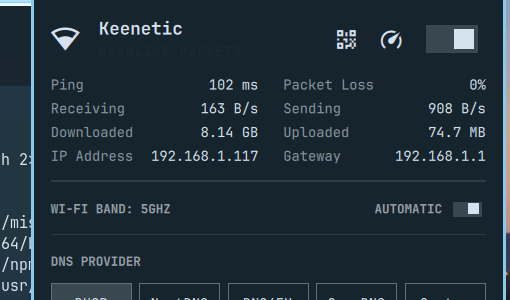
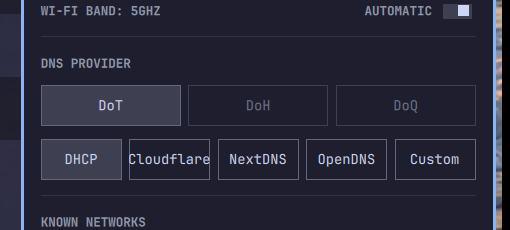
wifi-dns 2.0.0: 5 кнопок-колец + тогл DoT/DoH/DoQ, ровные кнопки

diff --git a/plugins/wifi-dns/Panel.qml b/plugins/wifi-dns/Panel.qml
@@ -75,6 +75,7 @@ Panel {
   property bool wifiStationAvailable: false
   property string dnsProvider: ""
   property string pendingDnsProvider: ""
+  property string dnsProtocol: "DoT"
   // Wi-Fi band state from `omarchy-network-band`. `bandCurrent` is the band
   // the radio is actually on; `bandSelected` is the pinned choice ("auto" when
   // nothing is pinned), and the two differ whenever Auto is in effect.
@@ -138,7 +139,51 @@ Panel {
   readonly property bool speedHeaderHasCursor: cursorActive && focusSection === "header" && headerIndex === speedHeaderIndex
   readonly property bool toggleHeaderHasCursor: cursorActive && focusSection === "header" && headerIndex === toggleHeaderIndex
   readonly property string toggleHint: Networking.wifiEnabled ? "Turn Wi-Fi off" : "Turn Wi-Fi on"
-  readonly property var dnsProviders: ["DHCP", "Cloudflare", "Google", "NextDNS", "DNS4EU", "OpenDNS", "Custom"]
+  // v1.5: five buttons; the middle three cycle providers on tap (DoT default).
+  // Rings group providers by class: globals, private, alternates.
+  readonly property var dnsRings: [["Cloudflare", "Google"], ["NextDNS", "DNS4EU"], ["OpenDNS", "Quad9"]]
+  readonly property var dnsRingIps: ({
+    "Cloudflare": "1.1.1.1", "Google": "8.8.8.8",
+    "NextDNS": "45.90.28.0", "DNS4EU": "86.54.11.100",
+    "OpenDNS": "208.67.222.222", "Quad9": "9.9.9.9"
+  })
+  property int dnsRing0: 0
+  property int dnsRing1: 0
+  property int dnsRing2: 0
+  function dnsRingPos(b) { return b === 0 ? dnsRing0 : (b === 1 ? dnsRing1 : dnsRing2) }
+  function dnsRingSet(b, i) {
+    if (b === 0) dnsRing0 = i
+    else if (b === 1) dnsRing1 = i
+    else dnsRing2 = i
+  }
+  function dnsButtonProvider(i) {
+    if (i === 0) return "DHCP"
+    if (i === 4) return "Custom"
+    var ring = dnsRings[i - 1]
+    return ring[dnsRingPos(i - 1) % ring.length]
+  }
+  function dnsRingNext(b) {
+    var ring = dnsRings[b]
+    return ring[(dnsRingPos(b) + 1) % ring.length]
+  }
+  function dnsRingTooltip(b) {
+    var cur = dnsButtonProvider(b + 1)
+    var nxt = dnsRingNext(b)
+    return "Set DNS to " + cur + " (" + dnsRingIps[cur] + ") → " + nxt + " (tap to cycle)"
+  }
+  function dnsSyncRings() {
+    for (var b = 0; b < 3; b++) {
+      var at = dnsRings[b].indexOf(dnsProvider)
+      if (at >= 0) dnsRingSet(b, at)
+    }
+  }
+  function cycleDns(b) {
+    var ring = dnsRings[b]
+    var at = (dnsRingPos(b) + 1) % ring.length
+    dnsRingSet(b, at)
+    setDns(ring[at])
+  }
+  readonly property var dnsProviders: ["DHCP", dnsButtonProvider(1), dnsButtonProvider(2), dnsButtonProvider(3), "Custom"]
   property int dnsIndex: 0
   // ["2.4", "5", ...], or empty when there is nothing to choose between.
   // Wi-Fi only: on Ethernet the band of a secondary radio is not what the
@@ -323,6 +368,7 @@ Panel {
       selectedIndex = wifiNetworks.length > 0 ? 0 : -1
       wifiActionFocused = false
       focusSection = wifiNetworks.length > 0 ? "wifi" : "dns"
+      root.dnsSyncRings()
       var idx = dnsProviders.indexOf(dnsProvider)
       dnsIndex = idx >= 0 ? idx : 0
       syncBandIndex()
@@ -875,6 +921,7 @@ Panel {
       if (root.pendingDnsProvider !== "") {
         if (exitCode === 0) root.dnsProvider = root.pendingDnsProvider
         root.pendingDnsProvider = ""
+        root.dnsSyncRings()
         // DNS switch reloads the NM stack, so the connection flaps: pull
         // fresh state now instead of leaving "no connection" on screen
         // (same pattern as the band branch below).
@@ -1418,11 +1465,62 @@ Panel {
         }
 
         Row {
+          id: dnsProtoRow
+          width: parent.width
+          spacing: Style.space(6)
+
+          readonly property int count: 3
+          readonly property real cellWidth: (width - spacing * (count - 1)) / count
+
+          Button {
+            text: "DoT"
+            fontSize: Style.font.bodySmall
+            foreground: root.bar.foreground
+            fontFamily: root.bar.fontFamily
+            horizontalPadding: Style.spacing.controlPaddingX
+            verticalPadding: Style.spacing.controlPaddingY + Style.space(2)
+            bordered: true
+            active: root.dnsProtocol === "DoT"
+            width: dnsProtoRow.cellWidth
+            tooltipText: "DNS over TLS (active)"
+            onClicked: root.dnsProtocol = "DoT"
+          }
+
+          Button {
+            text: "DoH"
+            fontSize: Style.font.bodySmall
+            foreground: root.bar.foreground
+            fontFamily: root.bar.fontFamily
+            horizontalPadding: Style.spacing.controlPaddingX
+            verticalPadding: Style.spacing.controlPaddingY + Style.space(2)
+            bordered: true
+            active: false
+            opacity: 0.45
+            width: dnsProtoRow.cellWidth
+            tooltipText: "DNS over HTTPS — coming in v2.0"
+          }
+
+          Button {
+            text: "DoQ"
+            fontSize: Style.font.bodySmall
+            foreground: root.bar.foreground
+            fontFamily: root.bar.fontFamily
+            horizontalPadding: Style.spacing.controlPaddingX
+            verticalPadding: Style.spacing.controlPaddingY + Style.space(2)
+            bordered: true
+            active: false
+            opacity: 0.45
+            width: dnsProtoRow.cellWidth
+            tooltipText: "DNS over QUIC — coming in v2.0"
+          }
+        }
+
+        Row {
           id: dnsRow
           width: parent.width
           spacing: Style.space(6)
 
-          readonly property int count: 7
+          readonly property int count: 5
           readonly property real cellWidth: (width - spacing * (count - 1)) / count
 
           DnsProviderPill {
@@ -1434,48 +1532,32 @@ Panel {
           }
 
           DnsProviderPill {
-            provider: "Cloudflare"
+            provider: root.dnsButtonProvider(1)
             index: 1
-            tooltipText: "Set DNS to Cloudflare (1.1.1.1)"
+            tooltipText: root.dnsRingTooltip(0)
             width: dnsRow.cellWidth
-            onClicked: root.setDns(provider)
+            onClicked: root.cycleDns(0)
           }
 
           DnsProviderPill {
-            provider: "Google"
+            provider: root.dnsButtonProvider(2)
             index: 2
-            tooltipText: "Set DNS to Google (8.8.8.8)"
+            tooltipText: root.dnsRingTooltip(1)
             width: dnsRow.cellWidth
-            onClicked: root.setDns(provider)
+            onClicked: root.cycleDns(1)
           }
 
           DnsProviderPill {
-            provider: "NextDNS"
+            provider: root.dnsButtonProvider(3)
             index: 3
-            tooltipText: "Set DNS to NextDNS (45.90.28.0)"
+            tooltipText: root.dnsRingTooltip(2)
             width: dnsRow.cellWidth
-            onClicked: root.setDns(provider)
-          }
-
-          DnsProviderPill {
-            provider: "DNS4EU"
-            index: 4
-            tooltipText: "Set DNS to DNS4EU (86.54.11.100)"
-            width: dnsRow.cellWidth
-            onClicked: root.setDns(provider)
-          }
-
-          DnsProviderPill {
-            provider: "OpenDNS"
-            index: 5
-            tooltipText: "Set DNS to OpenDNS (208.67.222.222)"
-            width: dnsRow.cellWidth
-            onClicked: root.setDns(provider)
+            onClicked: root.cycleDns(2)
           }
 
           DnsProviderPill {
             provider: "Custom"
-            index: 6
+            index: 4
             tooltipText: "Set custom DNS servers"
             width: dnsRow.cellWidth
             onClicked: root.setDns(provider)
@@ -1599,7 +1681,8 @@ Panel {
     fontSize: Style.font.bodySmall
     foreground: root.bar.foreground
     fontFamily: root.bar.fontFamily
-    horizontalPadding: Style.spacing.controlPaddingX
+    // Tight padding: five equal cells must fit "Cloudflare" without overflow.
+    horizontalPadding: Style.space(6)
     verticalPadding: Style.spacing.controlPaddingY + Style.space(2)
     bordered: true
 

diff --git a/plugins/wifi-dns/README.md b/plugins/wifi-dns/README.md
@@ -1,12 +1,24 @@
-# wifi-dns — Wi-Fi + DNS (worldwide)
+# wifi-dns 2.0 — Wi-Fi + DNS (worldwide)
 
 ## Why
 
-Stock pills (Cloudflare, Google) are throttled or unavailable in several regions. This fork ships working presets everywhere — Cloudflare, Google, NextDNS (45.90.28.0, DoT), DNS4EU (86.54.11.100), OpenDNS + Custom — and refreshes widget state after a DNS switch (stock sticks on "no connection").
+Stock pills (Cloudflare, Google) are throttled or unavailable in several regions. This fork ships working presets everywhere — and refreshes widget state after a DNS switch (stock sticks on "no connection").
+
+## v2.0: buttons × protocols
+
+Five buttons: DHCP and Custom are fixed; the middle three cycle DNS providers
+on tap (DoT default):
+
+- globals: Cloudflare (1.1.1.1) → Google (8.8.8.8)
+- private: NextDNS (45.90.28.0) → DNS4EU (86.54.11.100)
+- alternates: OpenDNS (208.67.222.222) → Quad9 (9.9.9.9)
+
+A protocol toggle (DoT / DoH / DoQ) sits above the buttons: DoT is live,
+DoH/DoQ are UI-ready and land with the proxy engine next.
 
 ## Changes vs stock `omarchy.network`
 
-1. `dnsProviders`: `[DHCP, Cloudflare, Google, NextDNS, DNS4EU, OpenDNS, Custom]` (was: DHCP, Cloudflare, Google, Custom).
+1. `dnsProviders`: 5 buttons — `[DHCP, ring(globals), ring(private), ring(alternates), Custom]` (was: DHCP, Cloudflare, Google, Custom).
 2. Pill tooltips + `root.refresh()` after a DNS switch (`onExited`).
 3. Everything else is stock.
 
